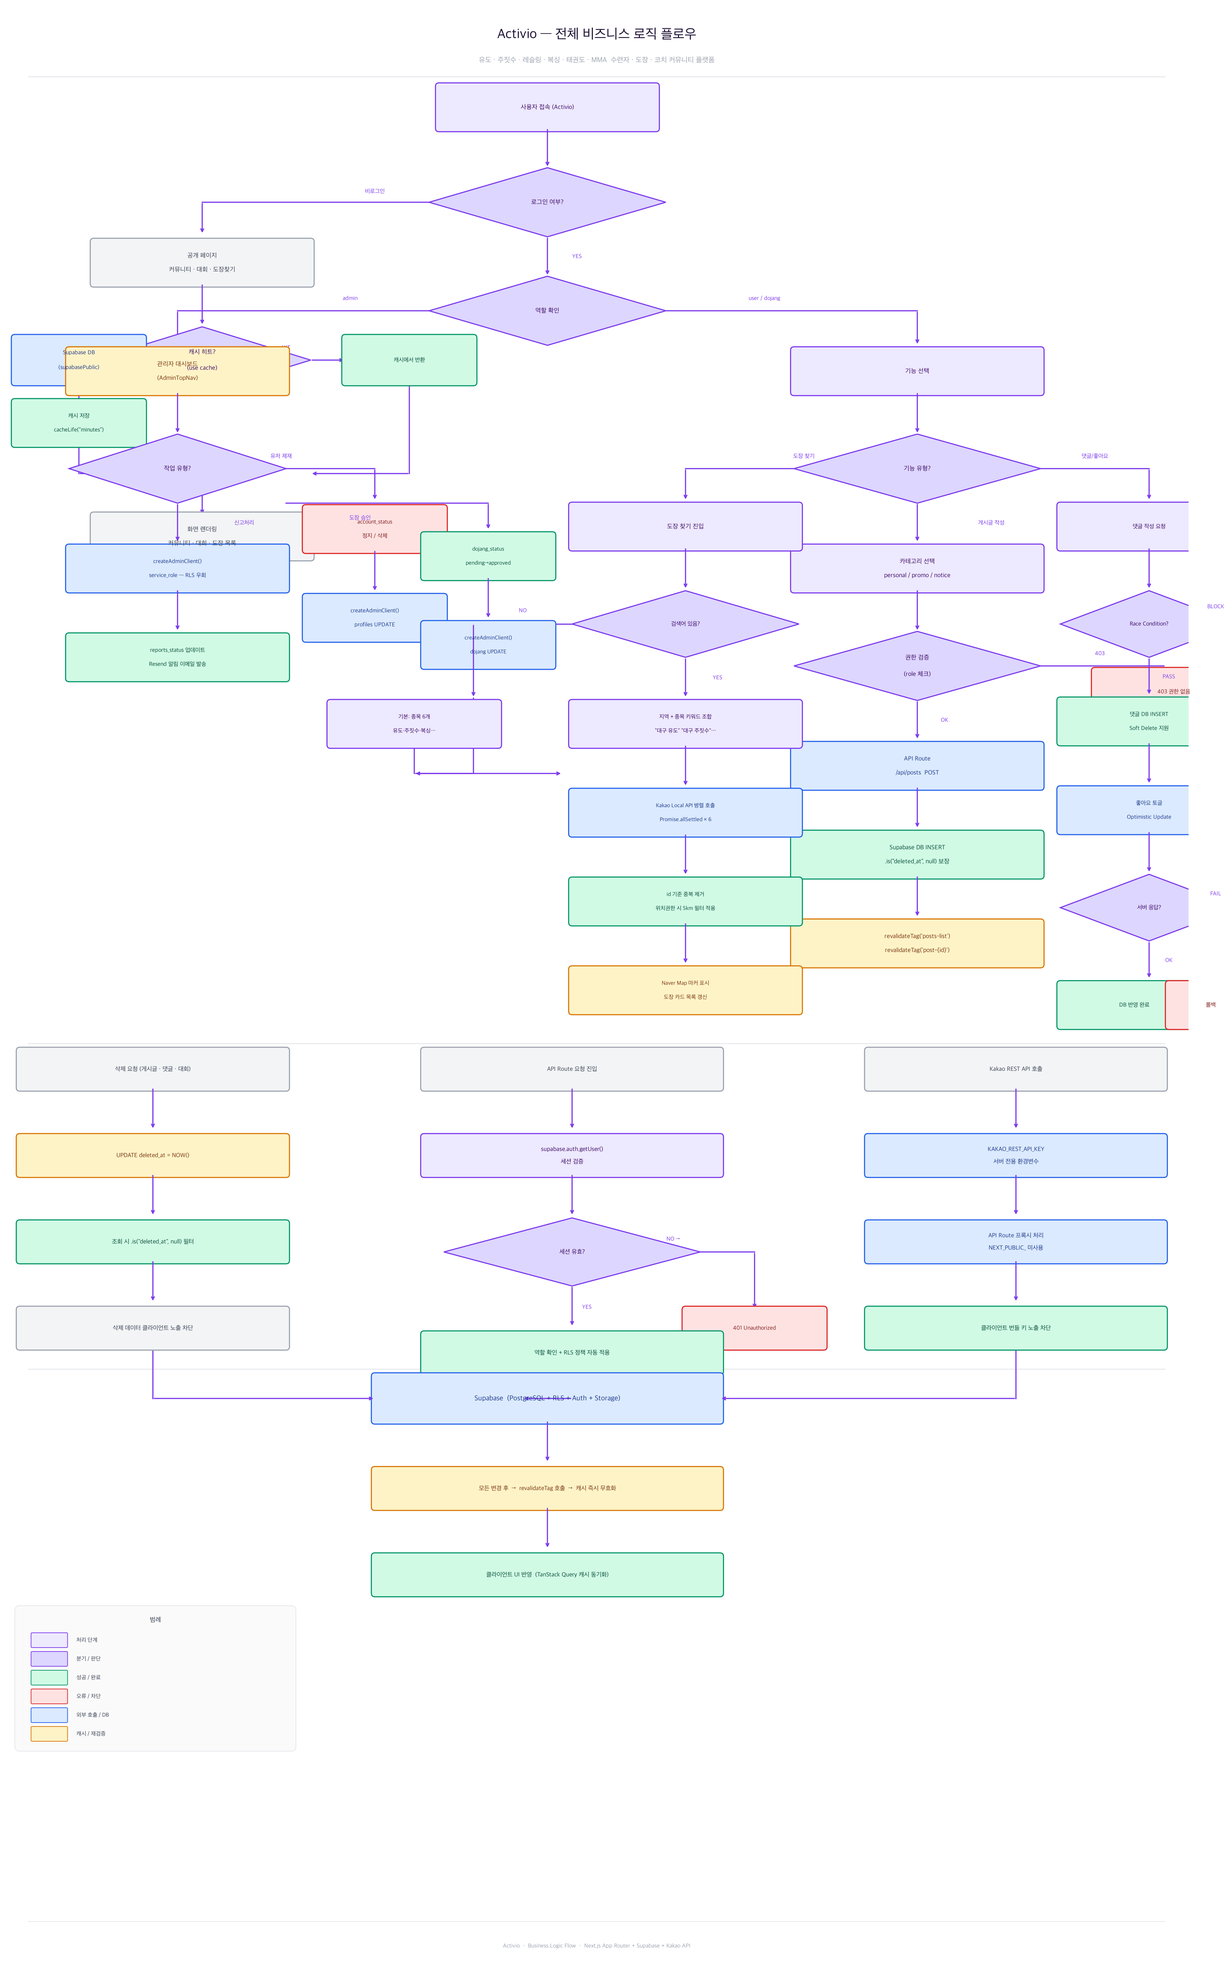
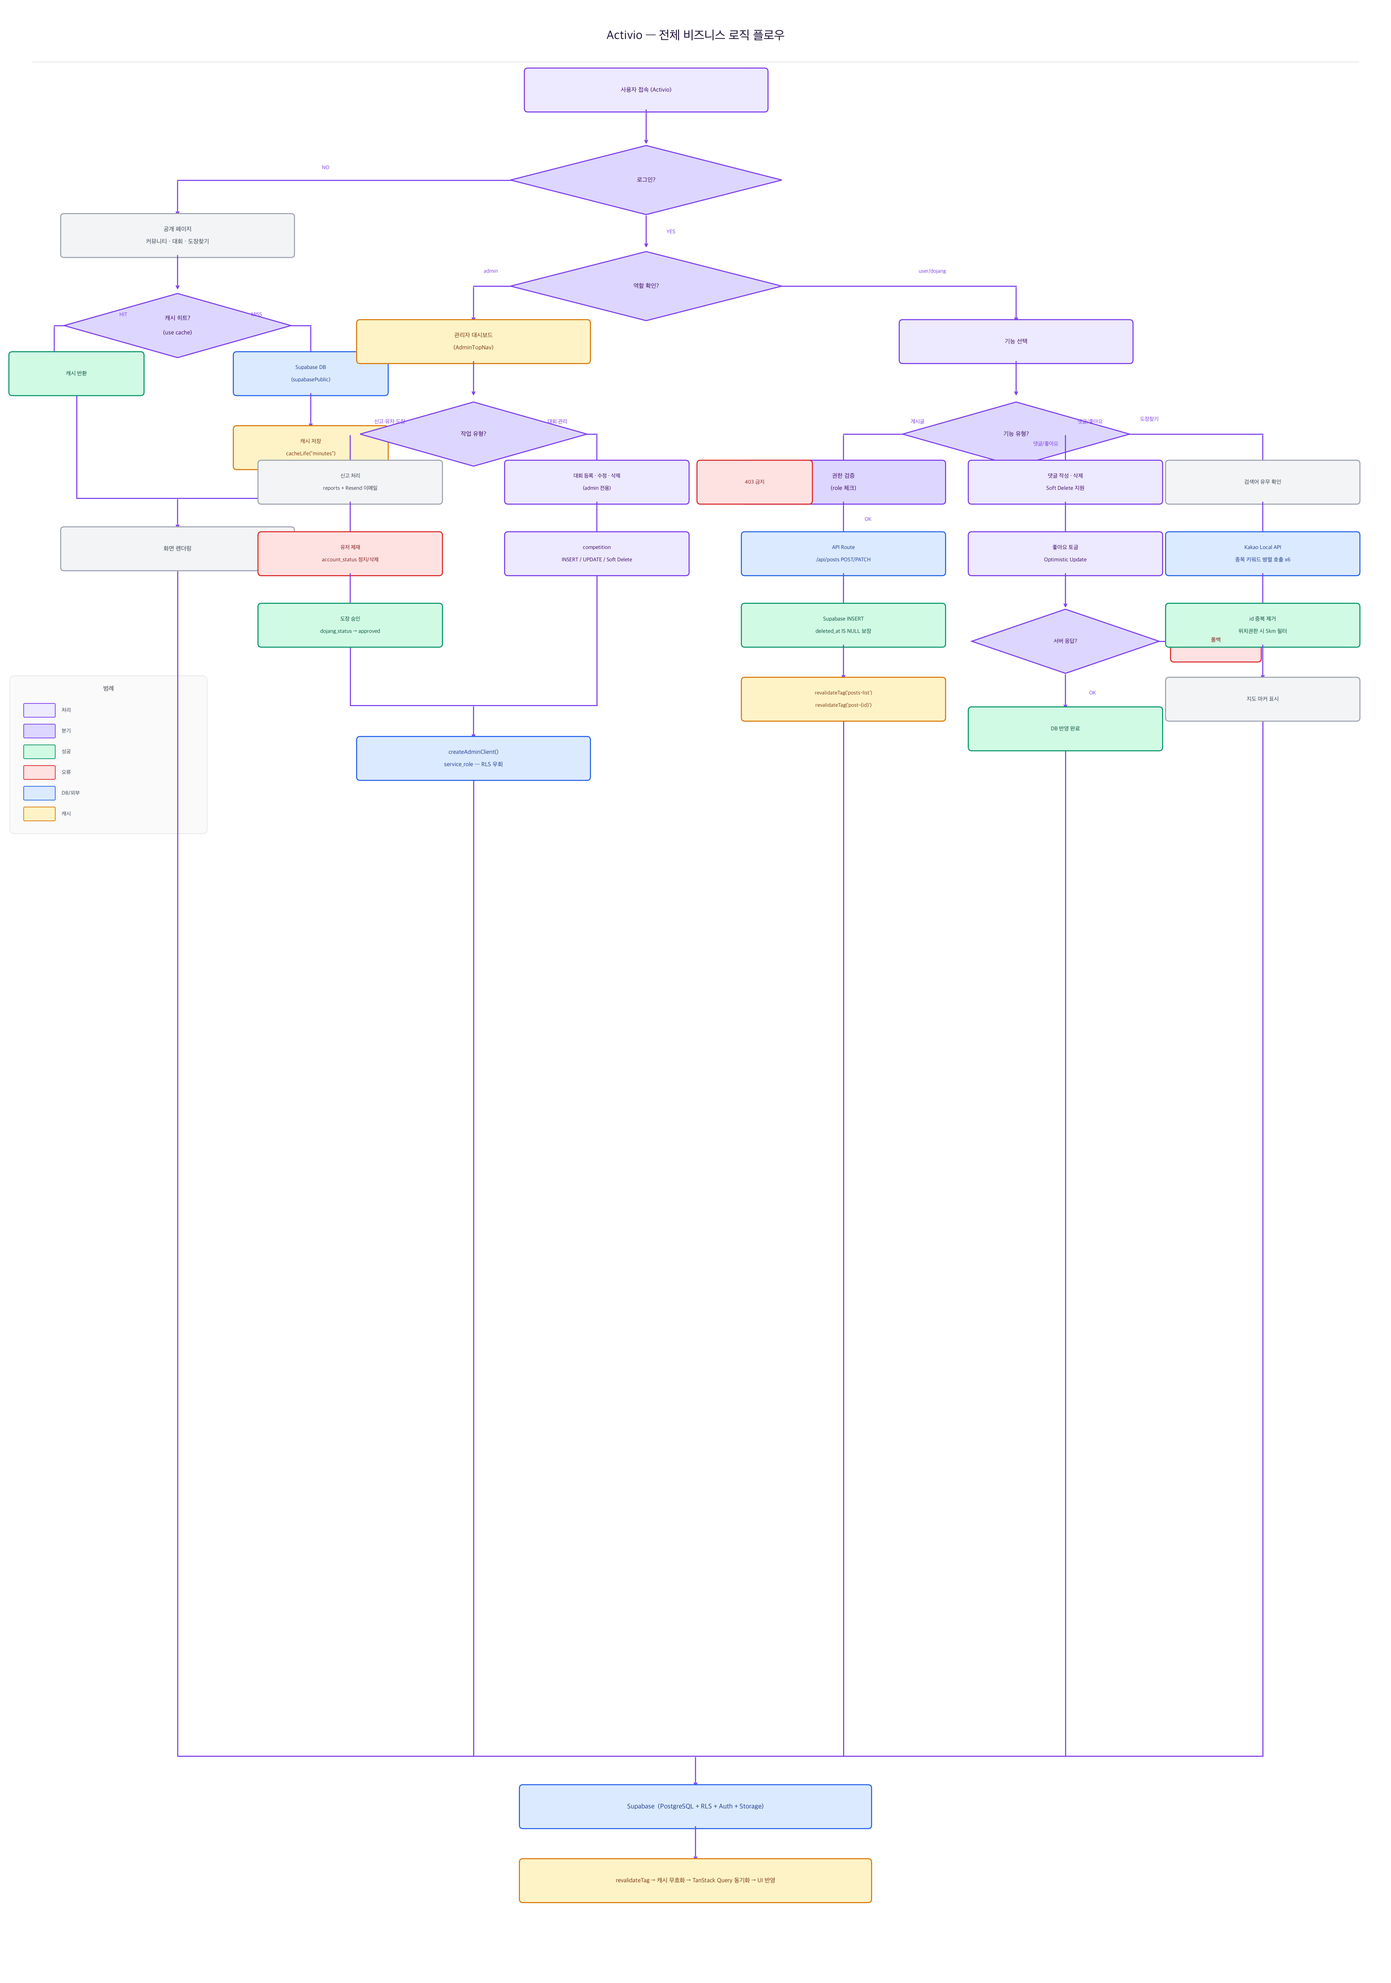
[Design] 단일 연결 플로우차트 재작성 + 기술 스택 뱃지 추가
- 비로그인·admin·user 3개 레인이 하나의 그래프로 연결
- admin 전용 대회 등록·관리 명시 (dojang 권한 제거)
- 하단 분리 섹션 제거 — 모든 레인이 Supabase 수렴선으로 연결
- README 기술 스택에 shields.io 뱃지 추가

diff --git a/README.md b/README.md
@@ -1,6 +1,6 @@
 # Activio
 
-> 유도·주짓수·레슬링·복싱·태권도·MMA — 모든 무술 종목 수련자·도장·코치를 하나의 공간에서 연결하는 스포츠 커뮤니티 플랫폼
+> 유도, 주짓수, 레슬링, 복싱, 태권도, MMA — 모든 무술 종목 수련자, 도장, 코치를 하나의 공간에서 연결하는 스포츠 커뮤니티 플랫폼
 
 배포 링크: https://final-project-team3.vercel.app/
 
@@ -20,19 +20,19 @@
 
 ## 프로젝트 소개
 
-| 항목 | 내용 |
-|------|------|
-| 배포 URL | https://final-project-team3.vercel.app/ |
-| 개발 기간 | 2026.04 ~ 진행 중 |
-| 개발 인원 | 4인 (풀스택) |
+| 항목      | 내용                                    |
+| --------- | --------------------------------------- |
+| 배포 URL  | https://final-project-team3.vercel.app/ |
+| 개발 기간 | 2026.04 ~ 진행 중                       |
+| 개발 인원 | 4인 (풀스택)                            |
 
 **테스트 계정**
 
-| 역할 | 이메일 | 비밀번호 |
-|------|--------|----------|
-| 일반 유저 | user@test.com | test1234! |
-| 도장 계정 | dojang@test.com | test1234! |
-| 관리자 | admin@test.com | admin1234! |
+| 역할      | 이메일          | 비밀번호   |
+| --------- | --------------- | ---------- |
+| 일반 유저 | user@test.com   | test1234!  |
+| 도장 계정 | dojang@test.com | test1234!  |
+| 관리자    | admin@test.com  | admin1234! |
 
 ---
 
@@ -72,42 +72,59 @@
 
 **프레임워크 · 언어**
 
-| 기술 | 선택 이유 |
-|------|-----------|
+![Next.js](https://img.shields.io/badge/Next.js_(App_Router)-000000?style=flat-square&logo=next.js&logoColor=white)
+![TypeScript](https://img.shields.io/badge/TypeScript-3178C6?style=flat-square&logo=typescript&logoColor=white)
+![React](https://img.shields.io/badge/React_19-61DAFB?style=flat-square&logo=react&logoColor=black)
+
+| 기술                 | 선택 이유                                                                                                           |
+| -------------------- | ------------------------------------------------------------------------------------------------------------------- |
 | Next.js (App Router) | `use cache` 디렉티브 + `revalidateTag`로 공개 데이터를 정적 캐싱하고, 인증 데이터는 Suspense 스트리밍으로 분리 처리 |
-| TypeScript (strict) | 역할 타입(`user`\|`dojang`\|`admin`), 게시글 카테고리, 운동 종목 슬러그 등 도메인 규칙을 타입 레벨에서 강제 |
-| React 19 | 서버/클라이언트 컴포넌트 경계를 명확히 하여 TTI 최적화 |
+| TypeScript (strict)  | 역할 타입(`user`\|`dojang`\|`admin`), 게시글 카테고리, 운동 종목 슬러그 등 도메인 규칙을 타입 레벨에서 강제         |
+| React 19             | 서버/클라이언트 컴포넌트 경계를 명확히 하여 TTI 최적화                                                              |
 
 **스타일**
 
-| 기술 | 선택 이유 |
-|------|-----------|
+![Tailwind CSS](https://img.shields.io/badge/Tailwind_CSS_v4-06B6D4?style=flat-square&logo=tailwindcss&logoColor=white)
+
+| 기술            | 선택 이유                                                                                                        |
+| --------------- | ---------------------------------------------------------------------------------------------------------------- |
 | Tailwind CSS v4 | `@custom-variant light`로 라이트 모드 오버라이드 구현, CSS 변수 토큰 기반 테마 시스템으로 하드코딩 없이 유지보수 |
 
 **백엔드 · 데이터베이스**
 
-| 기술 | 선택 이유 |
-|------|-----------|
+![Supabase](https://img.shields.io/badge/Supabase-3ECF8E?style=flat-square&logo=supabase&logoColor=white)
+![PostgreSQL](https://img.shields.io/badge/PostgreSQL-4169E1?style=flat-square&logo=postgresql&logoColor=white)
+
+| 기술                  | 선택 이유                                                                                    |
+| --------------------- | -------------------------------------------------------------------------------------------- |
 | Supabase (PostgreSQL) | RLS 정책으로 역할별 데이터 접근을 DB 레벨에서 통제, CHECK 제약으로 허용되지 않은 상태값 차단 |
-| Supabase Auth | 이메일 기반 인증, 세션·토큰 관리, 역할별 분기 처리 |
-| Supabase Storage | 게시글 이미지·동영상, 사업자등록증, 대회 이미지 버킷 분리 관리 |
+| Supabase Auth         | 이메일 기반 인증, 세션·토큰 관리, 역할별 분기 처리                                           |
+| Supabase Storage      | 게시글 이미지·동영상, 사업자등록증, 대회 이미지 버킷 분리 관리                               |
 
 **상태 관리**
 
-| 기술 | 선택 이유 |
-|------|-----------|
+![TanStack Query](https://img.shields.io/badge/TanStack_Query_v5-FF4154?style=flat-square&logo=reactquery&logoColor=white)
+![Zustand](https://img.shields.io/badge/Zustand-433E38?style=flat-square&logo=react&logoColor=white)
+![Zod](https://img.shields.io/badge/Zod-3E67B1?style=flat-square&logo=zod&logoColor=white)
+
+| 기술              | 선택 이유                                                                                       |
+| ----------------- | ----------------------------------------------------------------------------------------------- |
 | TanStack Query v5 | 무한 스크롤(`useInfiniteQuery`), 낙관적 업데이트(좋아요), `HydrationBoundary`로 SSR 워터폴 방지 |
-| Zustand | 인증 상태·모달 등 전역 UI 상태 관리, `useAuthStore` 단일 구독으로 불필요한 리렌더 방지 |
-| Zod | 폼 스키마를 `schemas/`에 정의하고 `z.infer<>`로 TypeScript 타입과 동기화 |
+| Zustand           | 인증 상태·모달 등 전역 UI 상태 관리, `useAuthStore` 단일 구독으로 불필요한 리렌더 방지          |
+| Zod               | 폼 스키마를 `schemas/`에 정의하고 `z.infer<>`로 TypeScript 타입과 동기화                        |
 
 **인프라 · 도구**
 
-| 기술 | 선택 이유 |
-|------|-----------|
-| Vercel | main 브랜치 자동 배포, Edge Network CDN, 환경변수 격리 |
-| Kakao Maps API | 국내 도로명 주소 정확도가 높고 지도 렌더링·마커 연동이 용이 |
+![Vercel](https://img.shields.io/badge/Vercel-000000?style=flat-square&logo=vercel&logoColor=white)
+![KakaoMap](https://img.shields.io/badge/Kakao_Maps_API-FFCD00?style=flat-square&logo=kakao&logoColor=black)
+![Resend](https://img.shields.io/badge/Resend-000000?style=flat-square&logo=resend&logoColor=white)
+
+| 기술            | 선택 이유                                                                             |
+| --------------- | ------------------------------------------------------------------------------------- |
+| Vercel          | main 브랜치 자동 배포, Edge Network CDN, 환경변수 격리                                |
+| Kakao Maps API  | 국내 도로명 주소 정확도가 높고 지도 렌더링·마커 연동이 용이                           |
 | Kakao Local API | 키워드 기반 장소 검색, REST API 키를 서버 전용 환경변수로 분리해 클라이언트 노출 차단 |
-| Resend | 신고 접수 알림 이메일 자동 발송 |
+| Resend          | 신고 접수 알림 이메일 자동 발송                                                       |
 
 ---
 
@@ -163,16 +180,16 @@ dojang        id · profile_id → profiles · business_number · representative
 export function createAdminClient() {
   return createClient(
     process.env.NEXT_PUBLIC_SUPABASE_URL!,
-    process.env.SUPABASE_SERVICE_ROLE_KEY!,  // NEXT_PUBLIC_ 없음 — 클라이언트 번들 미포함
-  )
+    process.env.SUPABASE_SERVICE_ROLE_KEY!, // NEXT_PUBLIC_ 없음 — 클라이언트 번들 미포함
+  );
 }
 ```
 
-| 클라이언트 | cookies | use cache | 용도 |
-|-----------|:-------:|:---------:|------|
-| `supabasePublic` | 없음 | 가능 | 커뮤니티·대회·도장 공개 데이터 |
-| `supabaseServer` | 있음 | 불가 | 마이페이지·글 작성 등 인증 필요 |
-| `supabaseAdmin` | 없음 | — | 패널티 부여·도장 승인·신고 처리 |
+| 클라이언트       | cookies | use cache | 용도                            |
+| ---------------- | :-----: | :-------: | ------------------------------- |
+| `supabasePublic` |  없음   |   가능    | 커뮤니티·대회·도장 공개 데이터  |
+| `supabaseServer` |  있음   |   불가    | 마이페이지·글 작성 등 인증 필요 |
+| `supabaseAdmin`  |  없음   |     —     | 패널티 부여·도장 승인·신고 처리 |
 
 ### 2. `use cache` + `revalidateTag` 캐싱 전략
 
@@ -181,22 +198,22 @@ export function createAdminClient() {
 ```typescript
 // services/communityService.server.ts
 export async function getPosts(page?: number, pageSize?: number) {
-  'use cache'
-  cacheTag('posts-list')
-  cacheLife('minutes')
+  'use cache';
+  cacheTag('posts-list');
+  cacheLife('minutes');
 
-  const supabase = createPublicSupabaseClient()
+  const supabase = createPublicSupabaseClient();
   return supabase
     .from('posts')
     .select('*, profiles(*), comments(count)')
     .is('deleted_at', null)
     .eq('status', 'published')
-    .order('created_at', { ascending: false })
+    .order('created_at', { ascending: false });
 }
 
 // API Route에서 캐시 무효화
-revalidateTag('posts-list')
-revalidateTag(`post-${id}`)
+revalidateTag('posts-list');
+revalidateTag(`post-${id}`);
 ```
 
 ### 3. Soft Delete 패턴
@@ -208,29 +225,26 @@ revalidateTag(`post-${id}`)
 await supabase
   .from('posts')
   .update({ deleted_at: new Date().toISOString() })
-  .eq('id', id)
+  .eq('id', id);
 
 // 조회 — deleted_at IS NULL 필터 필수
-await supabase
-  .from('posts')
-  .select('*')
-  .is('deleted_at', null)
+await supabase.from('posts').select('*').is('deleted_at', null);
 ```
 
 ### 4. 역할 기반 접근 제어 (RBAC)
 
 Supabase RLS 정책으로 DB 레벨에서 역할별 접근을 통제합니다.
 
-| 기능 | user | dojang | admin |
-|------|:----:|:------:|:-----:|
-| 게시글 조회 | ✅ | ✅ | ✅ |
-| 일반 게시글 작성 | ✅ | ✅ | ✅ |
-| 홍보 게시글 작성 | ❌ | ✅ | ✅ |
-| 공지 작성 | ❌ | ❌ | ✅ |
-| 타인 게시글 삭제 | ❌ | ❌ | ✅ |
-| 대회 등록·수정 | ❌ | ✅ | ✅ |
-| 관리자 페이지 | ❌ | ❌ | ✅ |
-| 유저 제재·도장 승인 | ❌ | ❌ | ✅ |
+| 기능                | user | dojang | admin |
+| ------------------- | :--: | :----: | :---: |
+| 게시글 조회         |  ✅  |   ✅   |  ✅   |
+| 일반 게시글 작성    |  ✅  |   ✅   |  ✅   |
+| 홍보 게시글 작성    |  ❌  |   ✅   |  ✅   |
+| 공지 작성           |  ❌  |   ❌   |  ✅   |
+| 타인 게시글 삭제    |  ❌  |   ❌   |  ✅   |
+| 대회 등록·수정      |  ❌  |   ✅   |  ✅   |
+| 관리자 페이지       |  ❌  |   ❌   |  ✅   |
+| 유저 제재·도장 승인 |  ❌  |   ❌   |  ✅   |
 
 ### 5. 댓글 Race Condition 방지
 
@@ -242,9 +256,9 @@ Supabase RLS 정책으로 DB 레벨에서 역할별 접근을 통제합니다.
 // 3단계: 텍스트 정규화로 invisible 문자·공백·대소문자 우회 차단
 function normalize(text: string): string {
   return text
-    .replace(/[]/g, '')  // invisible 문자 제거
+    .replace(/[]/g, '') // invisible 문자 제거
     .replace(/\s/g, '')
-    .toLowerCase()
+    .toLowerCase();
 }
 ```
 
@@ -297,12 +311,14 @@ useMutation({
 
 ```typescript
 // 변경 전: body 전체 spread → 임의 필드 주입 가능
-const body = await request.json()
-supabase.from('posts').insert({ ...body, user_id: user.id })
+const body = await request.json();
+supabase.from('posts').insert({ ...body, user_id: user.id });
 
 // 변경 후: 허용된 필드만 destructure
-const { title, content, category, sport, image_url } = await request.json()
-supabase.from('posts').insert({ title, content, category, sport, image_url, user_id: user.id })
+const { title, content, category, sport, image_url } = await request.json();
+supabase
+  .from('posts')
+  .insert({ title, content, category, sport, image_url, user_id: user.id });
 ```
 
 ### 환경변수 관리
@@ -340,7 +356,7 @@ const nextConfig: NextConfig = {
   experimental: {
     staleTimes: { dynamic: 0, static: 30 },
   },
-}
+};
 ```
 
 ### 4. 댓글 어뷰징 및 Race Condition
@@ -356,12 +372,12 @@ const nextConfig: NextConfig = {
 **해결**: URL 쿼리 파라미터로 상태 관리 + Supabase `.range()`로 서버 페이지네이션 전환
 
 ```typescript
-const from = (page - 1) * PAGE_SIZE
-const to = from + PAGE_SIZE - 1
-let query = supabase.from('profiles').select('*')
-if (status !== 'all') query = query.eq('role', status)
-if (search) query = query.ilike('nickname', `%${search}%`)
-const { data } = await query.range(from, to)
+const from = (page - 1) * PAGE_SIZE;
+const to = from + PAGE_SIZE - 1;
+let query = supabase.from('profiles').select('*');
+if (status !== 'all') query = query.eq('role', status);
+if (search) query = query.ilike('nickname', `%${search}%`);
+const { data } = await query.range(from, to);
 ```
 
 ### 6. 도장 회원가입 파일 업로드 순서 문제
@@ -374,10 +390,13 @@ const { data } = await query.range(from, to)
 
 ```typescript
 const onSubmit = async (data: DojangFormType) => {
-  if (!businessFile) { setServerError('사업자등록증을 첨부해주세요.'); return }
-  const businessFileUrl = await uploadBusinessFile(businessFile)  // 1. 먼저 업로드
-  await registerDojang({ ...data, businessFileUrl })              // 2. URL 확보 후 호출
-}
+  if (!businessFile) {
+    setServerError('사업자등록증을 첨부해주세요.');
+    return;
+  }
+  const businessFileUrl = await uploadBusinessFile(businessFile); // 1. 먼저 업로드
+  await registerDojang({ ...data, businessFileUrl }); // 2. URL 확보 후 호출
+};
 ```
 
 ---
@@ -499,23 +518,23 @@ npm run build
 
 ## 개선 사항
 
-| 기능 | 설명 |
-|------|------|
-| `profiles.belt_level` 컬럼 마이그레이션 | 운동 종목을 저장하기 위해 `belt_level` 컬럼을 재활용 중. 명시적인 `sport` 컬럼으로 분리 필요 |
-| 게시글 미리보기 | 작성 폼에서 실제 렌더링 결과를 미리 확인하는 기능 |
-| 인기글 정렬 | 좋아요·조회수 기반 인기글 탭 추가 |
-| 실시간 댓글 | Supabase Realtime을 활용한 새 댓글 실시간 반영 |
-| 소셜 로그인 | Google·Kakao OAuth 연동 |
-| 도장 리뷰 시스템 | 수련생이 도장에 평점과 후기를 남기는 기능 |
+| 기능                                       | 설명                                                                                            |
+| ------------------------------------------ | ----------------------------------------------------------------------------------------------- |
+| `profiles.belt_level` 컬럼 마이그레이션    | 운동 종목을 저장하기 위해 `belt_level` 컬럼을 재활용 중. 명시적인 `sport` 컬럼으로 분리 필요    |
+| 게시글 미리보기                            | 작성 폼에서 실제 렌더링 결과를 미리 확인하는 기능                                               |
+| 인기글 정렬                                | 좋아요·조회수 기반 인기글 탭 추가                                                               |
+| 실시간 댓글                                | Supabase Realtime을 활용한 새 댓글 실시간 반영                                                  |
+| 소셜 로그인                                | Google·Kakao OAuth 연동                                                                         |
+| 도장 리뷰 시스템                           | 수련생이 도장에 평점과 후기를 남기는 기능                                                       |
 | `getCompetitions()` 클라이언트 서비스 구현 | 현재 서버 사이드(`lib/getCompetitions.ts`)로만 처리 중인 목록 조회를 클라이언트 서비스로도 구현 |
 
 ---
 
 ## 팀원 소개
 
-| 이름 | 역할 | GitHub |
-|------|------|--------|
+| 이름   | 역할                                                                              | GitHub                                             |
+| ------ | --------------------------------------------------------------------------------- | -------------------------------------------------- |
 | 사민재 | 환경설정·DB 구성·커뮤니티·대회일정·도장찾기·헤더·캐싱 최적화·접근성 개선·리디자인 | [@smj123432-lab](https://github.com/smj123432-lab) |
-| 문유정 | 피그마 목업 제작·발표·게시글·공유·댓글 | [@myj9713-dev](https://github.com/myj9713-dev) |
-| 이정론 | 관리자 페이지 (유저 관리·도장 승인·대회 일정) | [@holymolyRon](https://github.com/holymolyRon) |
-| 이찬미 | 로그인·아이디/비밀번호 찾기·마이페이지 | [@lcmbook55](https://github.com/lcmbook55) |
+| 문유정 | 피그마 목업 제작·발표·게시글·공유·댓글                                            | [@myj9713-dev](https://github.com/myj9713-dev)     |
+| 이정론 | 관리자 페이지 (유저 관리·도장 승인·대회 일정)                                     | [@holymolyRon](https://github.com/holymolyRon)     |
+| 이찬미 | 로그인·아이디/비밀번호 찾기·마이페이지                                            | [@lcmbook55](https://github.com/lcmbook55)         |
